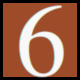
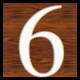
made the digit images less ugly

diff --git a/norwegian_poker.py b/norwegian_poker.py
@@ -14,8 +14,6 @@ def main():
     running = display.intro()
     running = display.num_players()
 
-    # TODO: ask the player how many players they want to play with (2-4) and implement gameplay w/ varying #s of players
-
     if running:  # checks to make sure player hasn't tried to quit while title screen is displayed
         display.deal()
         display.set_status_bar(0, True)
